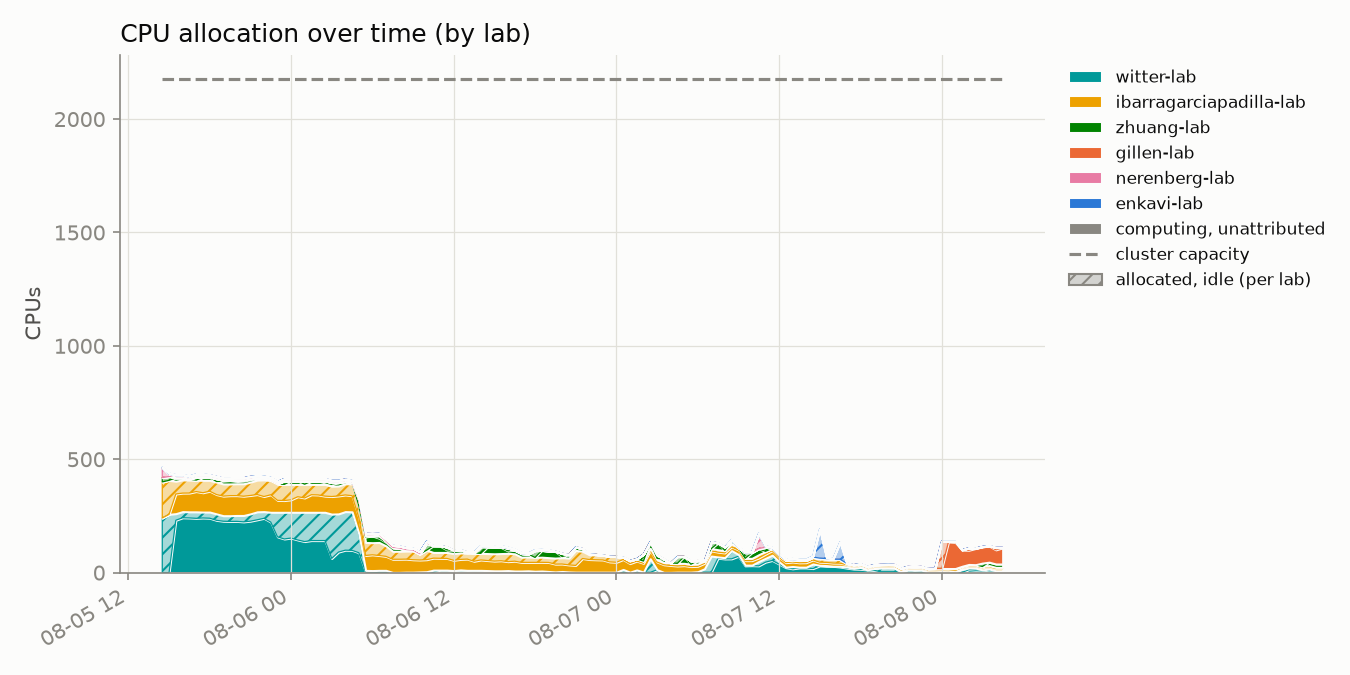
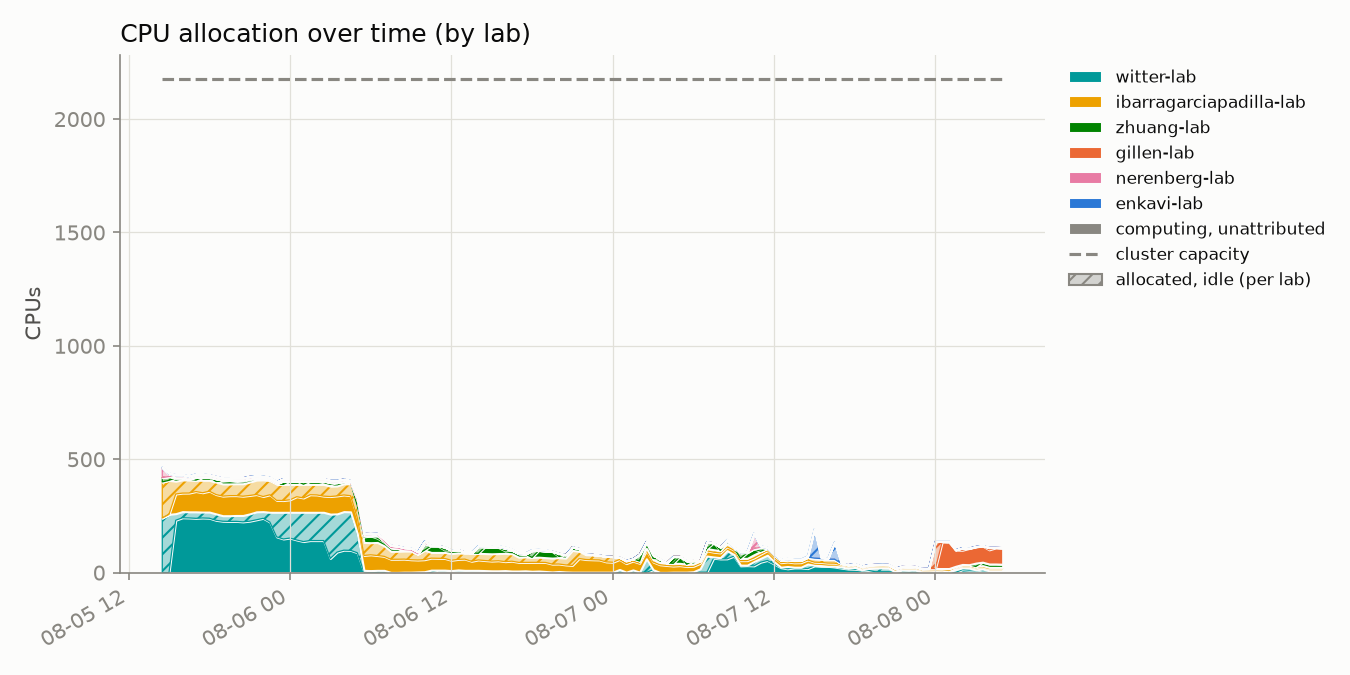
update 2026-08-08T05:00:01-07:00

diff --git a/README.md b/README.md
@@ -2,8 +2,8 @@
 
 Automated GPU/CPU/queue utilization tracker for `hopper.cluster`, updated every 30 minutes by cron. Usernames are anonymized to a stable per-account pseudonym; lab names are real.
 
-Last updated: 2026-08-08T04:30:16-07:00
-Samples: 125 queue snapshots, 125 GPU snapshots
+Last updated: 2026-08-08T05:00:14-07:00
+Samples: 126 queue snapshots, 126 GPU snapshots
 
 ## Resources
 
@@ -17,24 +17,24 @@ Samples: 125 queue snapshots, 125 GPU snapshots
 ## Headline
 
 - **45.8%** of the cluster's 60 GPUs allocated, averaged across all samples
-- **46.9%** average `nvidia-smi` utilization *when* a GPU is allocated to a job
-- **87.6%** average cgroup CPU utilization *when* a CPU is allocated to a job
+- **46.8%** average `nvidia-smi` utilization *when* a GPU is allocated to a job
+- **87.7%** average cgroup CPU utilization *when* a CPU is allocated to a job
 
 ## Per lab / per user
 
 <table>
 <tr><th>Lab</th><th>User</th><th align='right'>GPU-hours allocated</th><th align='right'>CPU-hours allocated</th><th align='right'>GPU utilization</th></tr>
-<tr style='background-color:#d8ecd8'><td>zhuang-lab</td><td>user-0db9ced0</td><td align='right'>752.0</td><td align='right'>752.0</td><td align='right'>47%</td></tr>
+<tr style='background-color:#d8ecd8'><td>zhuang-lab</td><td>user-0db9ced0</td><td align='right'>759.0</td><td align='right'>759.0</td><td align='right'>47%</td></tr>
 <tr style='background-color:#d8efef'><td>witter-lab</td><td>user-d58f5a15</td><td align='right'>467.5</td><td align='right'>3740.0</td><td align='right'>9%</td></tr>
-<tr style='background-color:#d8efef'><td>witter-lab</td><td>user-554c620c</td><td align='right'>440.0</td><td align='right'>957.5</td><td align='right'>66%</td></tr>
+<tr style='background-color:#d8efef'><td>witter-lab</td><td>user-554c620c</td><td align='right'>444.0</td><td align='right'>961.5</td><td align='right'>66%</td></tr>
 <tr style='background-color:#fbebf1'><td>nerenberg-lab</td><td>user-6bb5f332</td><td align='right'>40.0</td><td align='right'>200.0</td><td align='right'>71%</td></tr>
-<tr style='background-color:#fbebf1'><td>nerenberg-lab</td><td>user-fedb5feb</td><td align='right'>18.5</td><td align='right'>50.0</td><td align='right'>68%</td></tr>
-<tr style='background-color:#dfeaf8'><td>enkavi-lab</td><td>user-c21bdaa4</td><td align='right'>0.0</td><td align='right'>171.0</td><td align='right'>—</td></tr>
-<tr style='background-color:#fcf0d8'><td>ibarragarciapadilla-lab</td><td>user-3cfc41a3</td><td align='right'>0.0</td><td align='right'>3862.5</td><td align='right'>—</td></tr>
-<tr style='background-color:#fcf0d8'><td>ibarragarciapadilla-lab</td><td>user-eec7ffae</td><td align='right'>0.0</td><td align='right'>426.5</td><td align='right'>—</td></tr>
+<tr style='background-color:#fbebf1'><td>nerenberg-lab</td><td>user-fedb5feb</td><td align='right'>19.0</td><td align='right'>50.5</td><td align='right'>68%</td></tr>
 <tr style='background-color:#fbebf1'><td>nerenberg-lab</td><td>user-b12dc074</td><td align='right'>0.0</td><td align='right'>16.0</td><td align='right'>—</td></tr>
 <tr style='background-color:#fcf0d8'><td>ibarragarciapadilla-lab</td><td>user-dad71a72</td><td align='right'>0.0</td><td align='right'>6.0</td><td align='right'>—</td></tr>
-<tr style='background-color:#fce8e0'><td>gillen-lab</td><td>user-b89a87ef</td><td align='right'>0.0</td><td align='right'>432.0</td><td align='right'>—</td></tr>
+<tr style='background-color:#fce8e0'><td>gillen-lab</td><td>user-b89a87ef</td><td align='right'>0.0</td><td align='right'>468.0</td><td align='right'>—</td></tr>
+<tr style='background-color:#fcf0d8'><td>ibarragarciapadilla-lab</td><td>user-eec7ffae</td><td align='right'>0.0</td><td align='right'>426.5</td><td align='right'>—</td></tr>
+<tr style='background-color:#dfeaf8'><td>enkavi-lab</td><td>user-c21bdaa4</td><td align='right'>0.0</td><td align='right'>171.0</td><td align='right'>—</td></tr>
+<tr style='background-color:#fcf0d8'><td>ibarragarciapadilla-lab</td><td>user-3cfc41a3</td><td align='right'>0.0</td><td align='right'>3870.0</td><td align='right'>—</td></tr>
 </table>
 
 ## Usage over time
@@ -45,7 +45,7 @@ Samples: 125 queue snapshots, 125 GPU snapshots
 
 Solid = utilized by lab, hatched = allocated but idle, gray = usage not traceable to a lab, dashed line = cluster capacity.
 
-Attribution combines `nvidia-smi`'s process listing with Slurm's GPU-to-job binding record; the latter caught **2536** readings the former missed.
+Attribution combines `nvidia-smi`'s process listing with Slurm's GPU-to-job binding record; the latter caught **2547** readings the former missed.
 
 ## Queue
 
@@ -57,13 +57,13 @@ Attribution combines `nvidia-smi`'s process listing with Slurm's GPU-to-job bind
 
 ![CPU usage vs GPU usage, decayed](assets/cpu_gpu_usage.png)
 
-One point per user per snapshot (n=602), usage decayed on Slurm's ~7-day fairshare half-life.
+One point per user per snapshot (n=607), usage decayed on Slurm's ~7-day fairshare half-life.
 
 **GPU usage doesn't count toward priority on this cluster** (`TRESBillingWeights`/`PriorityWeightTRES` unset) - watch the **upper-left**: low CPU usage (high priority) with high GPU usage.
 
 ## Recommendations
 
-1. **Weight GPU usage in fairshare.** `TRESBillingWeights` and `PriorityWeightTRES` are both unset right now, so Slurm's fairshare score only sees CPU-seconds - a job holding 4 idle L40S GPUs costs nothing in priority as long as it isn't also holding CPUs. That's the exact failure mode the scatter above is built to catch (upper-left: low CPU usage, high GPU usage). Fix: `scontrol update partition=main TRESBillingWeights=CPU=1.0,GRES/gpu=<weight>` (or set `PriorityWeightTRES` cluster-wide), then `scontrol reconfigure` - a full `slurmctld` restart also works but drops in-flight priority state. A reasonable starting point for `<weight>` is the CPUs-per-GPU ratio on a GPU node (128 CPUs / 4 GPUs = 32), so one GPU costs as much fairshare as the CPU share it displaces; tune from there against next week's headline numbers (45.8% allocated, 46.9% utilized when allocated, as of this snapshot). The weight value itself is a policy call - loop in whoever owns cluster allocation policy before changing it.
+1. **Weight GPU usage in fairshare.** `TRESBillingWeights` and `PriorityWeightTRES` are both unset right now, so Slurm's fairshare score only sees CPU-seconds - a job holding 4 idle L40S GPUs costs nothing in priority as long as it isn't also holding CPUs. That's the exact failure mode the scatter above is built to catch (upper-left: low CPU usage, high GPU usage). Fix: `scontrol update partition=main TRESBillingWeights=CPU=1.0,GRES/gpu=<weight>` (or set `PriorityWeightTRES` cluster-wide), then `scontrol reconfigure` - a full `slurmctld` restart also works but drops in-flight priority state. A reasonable starting point for `<weight>` is the CPUs-per-GPU ratio on a GPU node (128 CPUs / 4 GPUs = 32), so one GPU costs as much fairshare as the CPU share it displaces; tune from there against next week's headline numbers (45.8% allocated, 46.8% utilized when allocated, as of this snapshot). The weight value itself is a policy call - loop in whoever owns cluster allocation policy before changing it.
 
 2. **Escalate on sustained low utilization** (see table and scatter above). Right now the clearest candidate is `user-d58f5a15` in `witter-lab`: 467.5 GPU-hours allocated at 9% average utilization, i.e. roughly 424 GPU-hours that sat idle instead of going to someone in the queue. Turning that into an automated escalation needs two decisions made up front: a utilization threshold (something like under 20% mean utilization over at least 50 allocated GPU-hours is a defensible starting bar - loose enough to skip short debugging runs, tight enough to catch parked allocations) and a grace period (how many consecutive low-utilization snapshots before it counts as "sustained" rather than a momentary lull between batches). Once those are set, the mechanism can be either soft (a bot that reads `data/gpu_samples.jsonl` and reminds the user/lab by email or Slack) or hard (a Slurm-side QOS penalty, e.g. `sacctmgr modify qos <qos> set Priority-=<n>`, applied after N consecutive offending snapshots). Neither exists yet - today the table and scatter above are a read-only signal, not an enforced policy.
 
